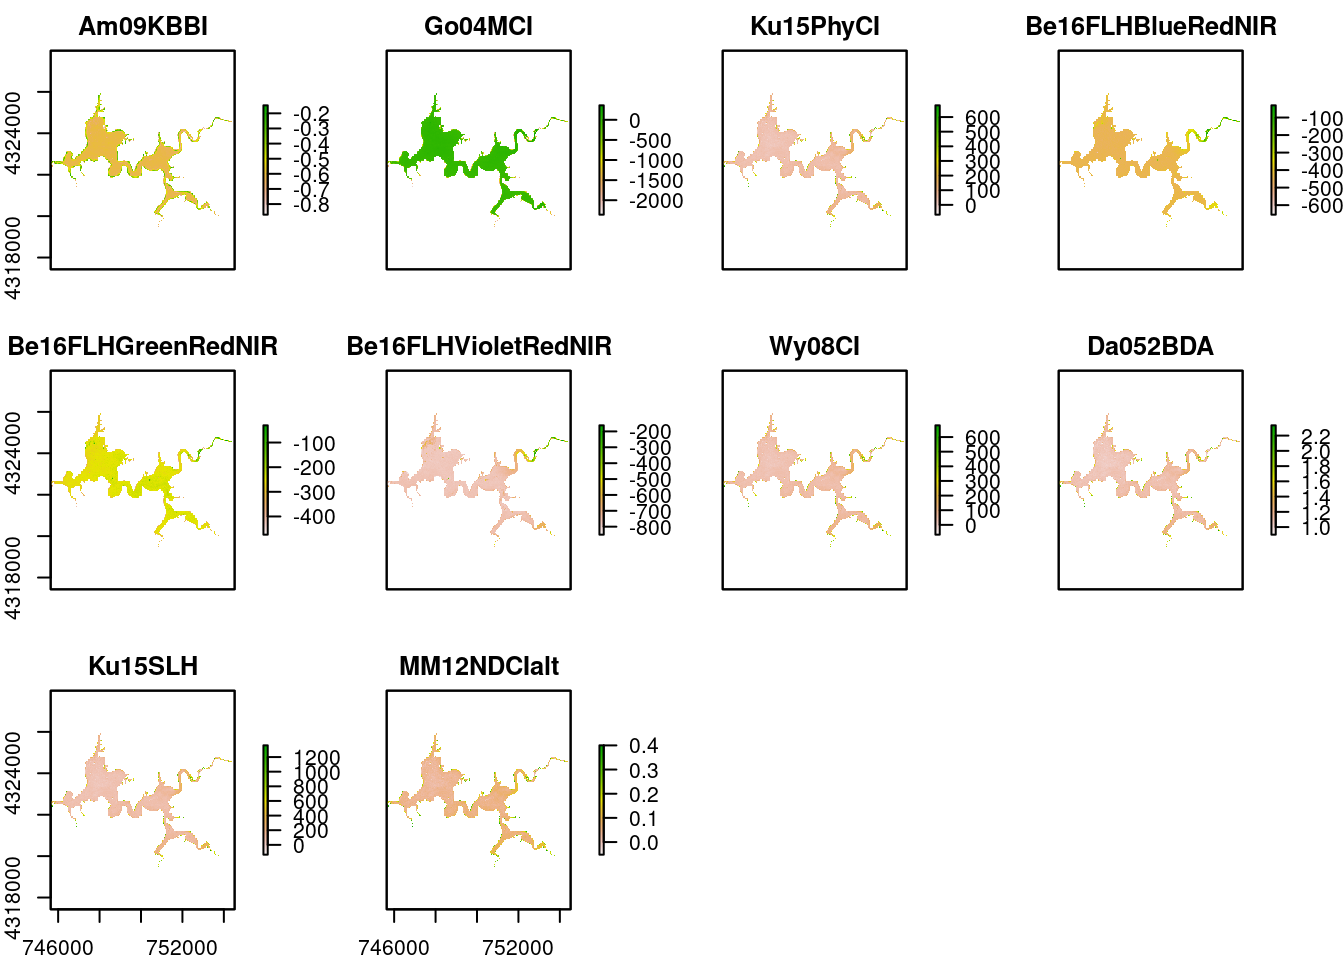
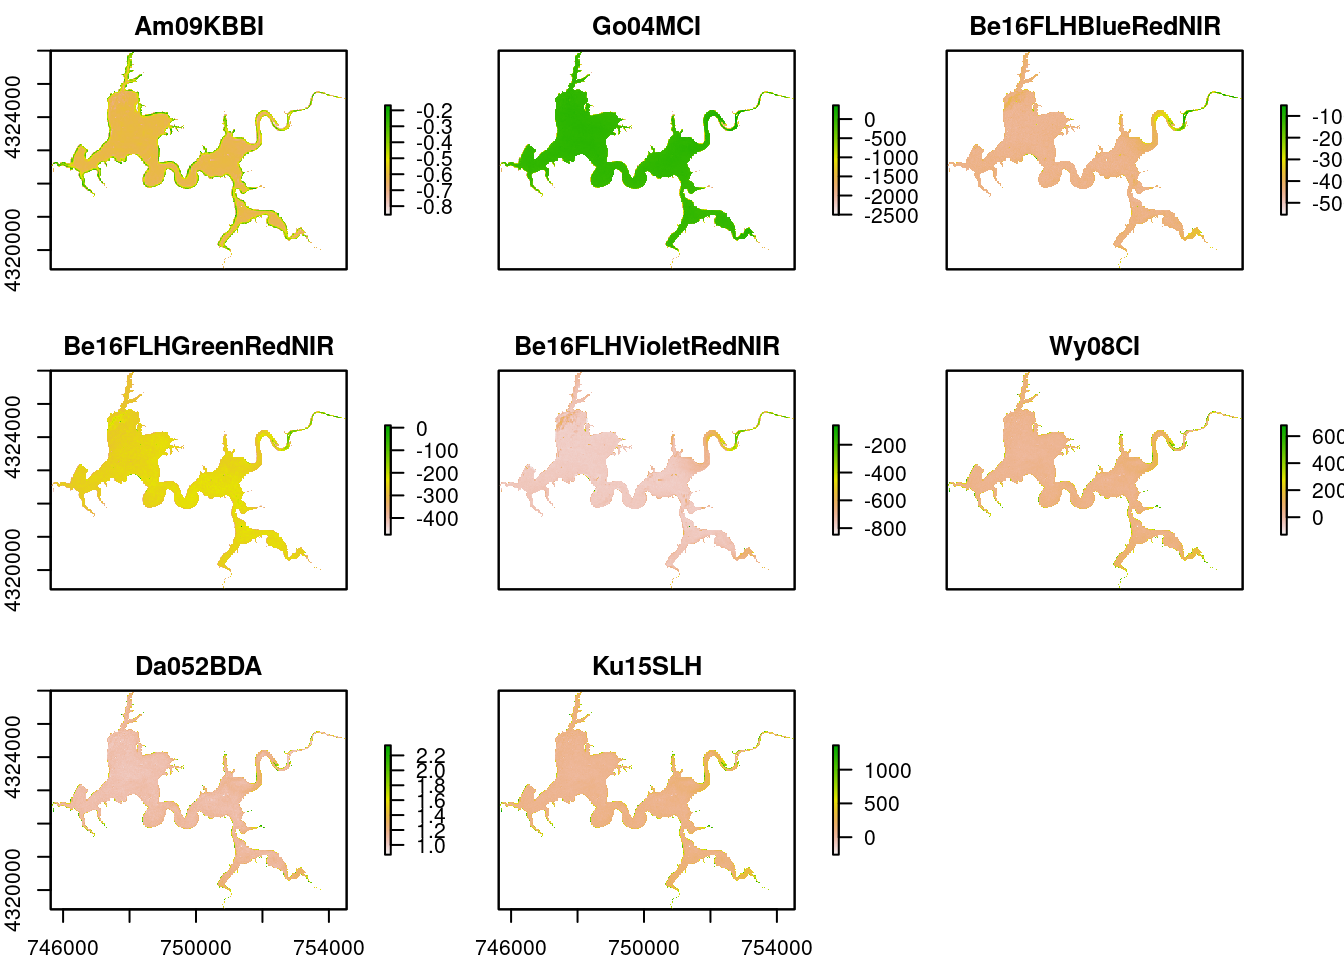
updates the website with added citation

diff --git a/docs/articles/waterquality_vignette.html b/docs/articles/waterquality_vignette.html
@@ -29,7 +29,7 @@
       </button>
       <span class="navbar-brand">
         <a class="navbar-link" href="../index.html">waterquality</a>
-        <span class="label label-default" data-toggle="tooltip" data-placement="bottom" title="Released package">0.2.0</span>
+        <span class="label label-default" data-toggle="tooltip" data-placement="bottom" title="Released package">0.2.2</span>
       </span>
     </div>
 
@@ -79,7 +79,7 @@
       <h1>Introduction to the waterquality package</h1>
                         <h4 class="author">Richard Johansen, Jakub Nowosad</h4>
             
-            <h4 class="date">2018-07-25</h4>
+            <h4 class="date">2018-11-16</h4>
       
       <small class="dont-index">Source: <a href="https://github.com/RAJohansen/waterquality/blob/master/vignettes/waterquality_vignette.Rmd"><code>vignettes/waterquality_vignette.Rmd</code></a></small>
       <div class="hidden name"><code>waterquality_vignette.Rmd</code></div>
@@ -162,7 +162,7 @@ Sen2R is a package that allows a user to search, download, and atmospherically c
 <tr class="even">
 <td align="left">8</td>
 <td align="right">NIR-2</td>
-<td align="right">0.880</td>
+<td align="right">0.950</td>
 </tr>
 </tbody>
 </table>
@@ -447,15 +447,13 @@ Sen2R is a package that allows a user to search, download, and atmospherically c
 <a class="sourceLine" id="cb4-3" data-line-number="3">                     <span class="dt">sat =</span> <span class="st">"sentinel2"</span>)</a>
 <a class="sourceLine" id="cb4-4" data-line-number="4"><span class="co">#&gt; Am09KBBI calculated!</span></a>
 <a class="sourceLine" id="cb4-5" data-line-number="5"><span class="co">#&gt; Go04MCI calculated!</span></a>
-<a class="sourceLine" id="cb4-6" data-line-number="6"><span class="co">#&gt; Ku15PhyCI calculated!</span></a>
-<a class="sourceLine" id="cb4-7" data-line-number="7"><span class="co">#&gt; Be16FLHBlueRedNIR calculated!</span></a>
-<a class="sourceLine" id="cb4-8" data-line-number="8"><span class="co">#&gt; Be16FLHGreenRedNIR calculated!</span></a>
-<a class="sourceLine" id="cb4-9" data-line-number="9"><span class="co">#&gt; Be16FLHVioletRedNIR calculated!</span></a>
-<a class="sourceLine" id="cb4-10" data-line-number="10"><span class="co">#&gt; Wy08CI calculated!</span></a>
-<a class="sourceLine" id="cb4-11" data-line-number="11"><span class="co">#&gt; Da052BDA calculated!</span></a>
-<a class="sourceLine" id="cb4-12" data-line-number="12"><span class="co">#&gt; Ku15SLH calculated!</span></a>
-<a class="sourceLine" id="cb4-13" data-line-number="13"><span class="co">#&gt; MM12NDCIalt calculated!</span></a>
-<a class="sourceLine" id="cb4-14" data-line-number="14"><span class="kw"><a href="http://www.rdocumentation.org/packages/raster/topics/plot">plot</a></span>(Harsha_PC) </a></code></pre></div>
+<a class="sourceLine" id="cb4-6" data-line-number="6"><span class="co">#&gt; Be16FLHBlueRedNIR calculated!</span></a>
+<a class="sourceLine" id="cb4-7" data-line-number="7"><span class="co">#&gt; Be16FLHGreenRedNIR calculated!</span></a>
+<a class="sourceLine" id="cb4-8" data-line-number="8"><span class="co">#&gt; Be16FLHVioletRedNIR calculated!</span></a>
+<a class="sourceLine" id="cb4-9" data-line-number="9"><span class="co">#&gt; Wy08CI calculated!</span></a>
+<a class="sourceLine" id="cb4-10" data-line-number="10"><span class="co">#&gt; Da052BDA calculated!</span></a>
+<a class="sourceLine" id="cb4-11" data-line-number="11"><span class="co">#&gt; Ku15SLH calculated!</span></a>
+<a class="sourceLine" id="cb4-12" data-line-number="12"><span class="kw"><a href="http://www.rdocumentation.org/packages/raster/topics/plot">plot</a></span>(Harsha_PC) </a></code></pre></div>
 <p><img src="waterquality_vignette_files/figure-html/unnamed-chunk-4-1.png" width="672"></p>
 </div>
 <div id="all-algorithms" class="section level2">
@@ -467,32 +465,28 @@ Sen2R is a package that allows a user to search, download, and atmospherically c
 <a class="sourceLine" id="cb5-4" data-line-number="4"><span class="co">#&gt; Al10SABI calculated!</span></a>
 <a class="sourceLine" id="cb5-5" data-line-number="5"><span class="co">#&gt; Am092Bsub calculated!</span></a>
 <a class="sourceLine" id="cb5-6" data-line-number="6"><span class="co">#&gt; Am09KBBI calculated!</span></a>
-<a class="sourceLine" id="cb5-7" data-line-number="7"><span class="co">#&gt; Be16FLHblue calculated!</span></a>
-<a class="sourceLine" id="cb5-8" data-line-number="8"><span class="co">#&gt; Be16FLHviolet calculated!</span></a>
-<a class="sourceLine" id="cb5-9" data-line-number="9"><span class="co">#&gt; Gi033BDA calculated!</span></a>
-<a class="sourceLine" id="cb5-10" data-line-number="10"><span class="co">#&gt; Go04MCI calculated!</span></a>
-<a class="sourceLine" id="cb5-11" data-line-number="11"><span class="co">#&gt; Ku15PhyCI calculated!</span></a>
-<a class="sourceLine" id="cb5-12" data-line-number="12"><span class="co">#&gt; MM12NDCI calculated!</span></a>
-<a class="sourceLine" id="cb5-13" data-line-number="13"><span class="co">#&gt; Be16NDTIblue calculated!</span></a>
-<a class="sourceLine" id="cb5-14" data-line-number="14"><span class="co">#&gt; Be16NDTIviolet calculated!</span></a>
-<a class="sourceLine" id="cb5-15" data-line-number="15"><span class="co">#&gt; Be16FLHBlueRedNIR calculated!</span></a>
-<a class="sourceLine" id="cb5-16" data-line-number="16"><span class="co">#&gt; Be16FLHGreenRedNIR calculated!</span></a>
-<a class="sourceLine" id="cb5-17" data-line-number="17"><span class="co">#&gt; Be16FLHVioletRedNIR calculated!</span></a>
-<a class="sourceLine" id="cb5-18" data-line-number="18"><span class="co">#&gt; Wy08CI calculated!</span></a>
-<a class="sourceLine" id="cb5-19" data-line-number="19"><span class="co">#&gt; Da052BDA calculated!</span></a>
-<a class="sourceLine" id="cb5-20" data-line-number="20"><span class="co">#&gt; Zh10FLH calculated!</span></a>
-<a class="sourceLine" id="cb5-21" data-line-number="21"><span class="co">#&gt; Ku15SLH calculated!</span></a>
-<a class="sourceLine" id="cb5-22" data-line-number="22"><span class="co">#&gt; MM12NDCIalt calculated!</span></a>
-<a class="sourceLine" id="cb5-23" data-line-number="23"><span class="co">#&gt; TurbBe16GreenPlusRedBothOverViolet calculated!</span></a>
-<a class="sourceLine" id="cb5-24" data-line-number="24"><span class="co">#&gt; TurbBe16RedOverViolet calculated!</span></a>
-<a class="sourceLine" id="cb5-25" data-line-number="25"><span class="co">#&gt; TurbBow06RedOverGreen calculated!</span></a>
-<a class="sourceLine" id="cb5-26" data-line-number="26"><span class="co">#&gt; TurbChip09NIROverGreen calculated!</span></a>
-<a class="sourceLine" id="cb5-27" data-line-number="27"><span class="co">#&gt; TurbDox02NIRoverRed calculated!</span></a>
-<a class="sourceLine" id="cb5-28" data-line-number="28"><span class="co">#&gt; TurbFrohn09GreenPlusRedBothOverBlue calculated!</span></a>
-<a class="sourceLine" id="cb5-29" data-line-number="29"><span class="co">#&gt; TurbHarr92NIR calculated!</span></a>
-<a class="sourceLine" id="cb5-30" data-line-number="30"><span class="co">#&gt; TurbLath91RedOverBlue calculated!</span></a>
-<a class="sourceLine" id="cb5-31" data-line-number="31"><span class="co">#&gt; TurbMoore80Red calculated!</span></a>
-<a class="sourceLine" id="cb5-32" data-line-number="32"><span class="kw"><a href="http://www.rdocumentation.org/packages/raster/topics/plot">plot</a></span>(Harsha_All) <span class="co"># Only displays first 12 of 28</span></a></code></pre></div>
+<a class="sourceLine" id="cb5-7" data-line-number="7"><span class="co">#&gt; Be16FLHviolet calculated!</span></a>
+<a class="sourceLine" id="cb5-8" data-line-number="8"><span class="co">#&gt; Gi033BDA calculated!</span></a>
+<a class="sourceLine" id="cb5-9" data-line-number="9"><span class="co">#&gt; Go04MCI calculated!</span></a>
+<a class="sourceLine" id="cb5-10" data-line-number="10"><span class="co">#&gt; MM12NDCI calculated!</span></a>
+<a class="sourceLine" id="cb5-11" data-line-number="11"><span class="co">#&gt; Be16NDTIblue calculated!</span></a>
+<a class="sourceLine" id="cb5-12" data-line-number="12"><span class="co">#&gt; Be16NDTIviolet calculated!</span></a>
+<a class="sourceLine" id="cb5-13" data-line-number="13"><span class="co">#&gt; Be16FLHBlueRedNIR calculated!</span></a>
+<a class="sourceLine" id="cb5-14" data-line-number="14"><span class="co">#&gt; Be16FLHGreenRedNIR calculated!</span></a>
+<a class="sourceLine" id="cb5-15" data-line-number="15"><span class="co">#&gt; Be16FLHVioletRedNIR calculated!</span></a>
+<a class="sourceLine" id="cb5-16" data-line-number="16"><span class="co">#&gt; Wy08CI calculated!</span></a>
+<a class="sourceLine" id="cb5-17" data-line-number="17"><span class="co">#&gt; Da052BDA calculated!</span></a>
+<a class="sourceLine" id="cb5-18" data-line-number="18"><span class="co">#&gt; Ku15SLH calculated!</span></a>
+<a class="sourceLine" id="cb5-19" data-line-number="19"><span class="co">#&gt; TurbBe16GreenPlusRedBothOverViolet calculated!</span></a>
+<a class="sourceLine" id="cb5-20" data-line-number="20"><span class="co">#&gt; TurbBe16RedOverViolet calculated!</span></a>
+<a class="sourceLine" id="cb5-21" data-line-number="21"><span class="co">#&gt; TurbBow06RedOverGreen calculated!</span></a>
+<a class="sourceLine" id="cb5-22" data-line-number="22"><span class="co">#&gt; TurbChip09NIROverGreen calculated!</span></a>
+<a class="sourceLine" id="cb5-23" data-line-number="23"><span class="co">#&gt; TurbDox02NIRoverRed calculated!</span></a>
+<a class="sourceLine" id="cb5-24" data-line-number="24"><span class="co">#&gt; TurbFrohn09GreenPlusRedBothOverBlue calculated!</span></a>
+<a class="sourceLine" id="cb5-25" data-line-number="25"><span class="co">#&gt; TurbHarr92NIR calculated!</span></a>
+<a class="sourceLine" id="cb5-26" data-line-number="26"><span class="co">#&gt; TurbLath91RedOverBlue calculated!</span></a>
+<a class="sourceLine" id="cb5-27" data-line-number="27"><span class="co">#&gt; TurbMoore80Red calculated!</span></a>
+<a class="sourceLine" id="cb5-28" data-line-number="28"><span class="kw"><a href="http://www.rdocumentation.org/packages/raster/topics/plot">plot</a></span>(Harsha_All) <span class="co"># Only displays first 12 of 28</span></a></code></pre></div>
 <p><img src="waterquality_vignette_files/figure-html/unnamed-chunk-5-1.png" width="672"></p>
 </div>
 </div>

diff --git a/docs/index.html b/docs/index.html
@@ -33,7 +33,7 @@
       </button>
       <span class="navbar-brand">
         <a class="navbar-link" href="index.html">waterquality</a>
-        <span class="label label-default" data-toggle="tooltip" data-placement="bottom" title="Released package">0.2.0</span>
+        <span class="label label-default" data-toggle="tooltip" data-placement="bottom" title="Released package">0.2.2</span>
       </span>
     </div>
 
@@ -94,7 +94,7 @@
 <a href="#installation" class="anchor"></a>Installation</h2>
 <p>You can install waterquality from github with:</p>
 <div class="sourceCode" id="cb1"><pre class="sourceCode r"><code class="sourceCode r"><a class="sourceLine" id="cb1-1" data-line-number="1"><span class="co"># install.packages("devtools")</span></a>
-<a class="sourceLine" id="cb1-2" data-line-number="2">devtools<span class="op">::</span><span class="kw"><a href="http://www.rdocumentation.org/packages/devtools/topics/install_github">install_github</a></span>(<span class="st">"RAJohansen/waterquality"</span>)</a></code></pre></div>
+<a class="sourceLine" id="cb1-2" data-line-number="2">devtools<span class="op">::</span><span class="kw"><a href="http://www.rdocumentation.org/packages/devtools/topics/reexports">install_github</a></span>(<span class="st">"RAJohansen/waterquality"</span>)</a></code></pre></div>
 </div>
 <div id="example" class="section level2">
 <h2 class="hasAnchor">
@@ -115,7 +115,7 @@
 <h2 class="hasAnchor">
 <a href="#package-contributions" class="anchor"></a>Package Contributions</h2>
 <p>We encourage users to submit issues and enhancement requests so we may continue to improve our package.</p>
-<p>Futhermore, if you have a water quality algorithm that was not on our list, and you would like for it to be included in our package please email me at <a href="mailto:richard.johansen@uc.edu">richard.johansen@uc.edu</a>.</p>
+<p>Futhermore, if you have a water quality algorithm that was not on our list, and you would like for it to be included in our package please email me at <a href="mailto:richard.johansen@uc.edu" class="email">richard.johansen@uc.edu</a>.</p>
 </div>
 </div>
   </div>
@@ -136,6 +136,12 @@
 <li>
 <a href="https://opensource.org/licenses/mit-license.php">MIT</a> + file <a href="LICENSE-text.html">LICENSE</a>
 </li>
+</ul>
+</div>
+<div class="citation">
+<h2>Citation</h2>
+<ul class="list-unstyled">
+<li><a href="authors.html">Citing waterquality</a></li>
 </ul>
 </div>
 <div class="developers">

diff --git a/docs/reference/waterquality-package.html b/docs/reference/waterquality-package.html
@@ -33,10 +33,10 @@
 <meta property="og:title" content="waterquality: Satellite Derived Water Quality Detection Algorithms — waterquality-package" />
 
 <meta property="og:description" content="The goal of 'waterquality' is to convert satellite-reflectance imagery
-to a host of pre-defined water quality algorithms designed for the detection of
-cholorophyll-a, blue-green algae (Phycocyanin), and turbidity.
-This package is able to process the following sensor configurations:
-WorldView-2, Sentinel-2, Landsat-8, MODIS, and MERIS." />
+    to a host of pre-defined water quality algorithms designed for the detection of 
+    cholorophyll-a, blue-green algae (Phycocyanin), and turbidity. 
+    This package is able to process the following sensor configurations: 
+    WorldView-2, Sentinel-2, Landsat-8, MODIS, and MERIS." />
 <meta name="twitter:card" content="summary" />
 
 
@@ -65,7 +65,7 @@ WorldView-2, Sentinel-2, Landsat-8, MODIS, and MERIS." />
       </button>
       <span class="navbar-brand">
         <a class="navbar-link" href="../index.html">waterquality</a>
-        <span class="label label-default" data-toggle="tooltip" data-placement="bottom" title="Released package">0.2.0</span>
+        <span class="label label-default" data-toggle="tooltip" data-placement="bottom" title="Released package">0.2.2</span>
       </span>
     </div>
 
@@ -121,10 +121,10 @@ WorldView-2, Sentinel-2, Landsat-8, MODIS, and MERIS." />
     <div class="ref-description">
     
     <p>The goal of 'waterquality' is to convert satellite-reflectance imagery
-to a host of pre-defined water quality algorithms designed for the detection of
-cholorophyll-a, blue-green algae (Phycocyanin), and turbidity.
-This package is able to process the following sensor configurations:
-WorldView-2, Sentinel-2, Landsat-8, MODIS, and MERIS.</p>
+    to a host of pre-defined water quality algorithms designed for the detection of 
+    cholorophyll-a, blue-green algae (Phycocyanin), and turbidity. 
+    This package is able to process the following sensor configurations: 
+    WorldView-2, Sentinel-2, Landsat-8, MODIS, and MERIS.</p>
     
     </div>
 

diff --git a/docs/authors.html b/docs/authors.html
@@ -6,7 +6,7 @@
 <meta http-equiv="X-UA-Compatible" content="IE=edge">
 <meta name="viewport" content="width=device-width, initial-scale=1.0">
 
-<title>Authors • waterquality</title>
+<title>Citation and Authors • waterquality</title>
 
 <!-- jquery -->
 <script src="https://code.jquery.com/jquery-3.1.0.min.js" integrity="sha384-nrOSfDHtoPMzJHjVTdCopGqIqeYETSXhZDFyniQ8ZHcVy08QesyHcnOUpMpqnmWq" crossorigin="anonymous"></script>
@@ -30,7 +30,7 @@
 
 
 
-<meta property="og:title" content="Authors" />
+<meta property="og:title" content="Citation and Authors" />
 
 
 
@@ -46,7 +46,7 @@
   </head>
 
   <body>
-    <div class="container template-authors">
+    <div class="container template-citation-authors">
       <header>
       <div class="navbar navbar-default navbar-fixed-top" role="navigation">
   <div class="container">
@@ -58,7 +58,7 @@
       </button>
       <span class="navbar-brand">
         <a class="navbar-link" href="index.html">waterquality</a>
-        <span class="label label-default" data-toggle="tooltip" data-placement="bottom" title="Released package">0.2.0</span>
+        <span class="label label-default" data-toggle="tooltip" data-placement="bottom" title="Released package">0.2.2</span>
       </span>
     </div>
 
@@ -105,6 +105,21 @@
 
 <div class="row">
   <div class="contents col-md-9">
+    <div class="page-header">
+      <h1>Citation</h1>
+    </div>
+
+    <p>Johansen R, Nowosad J (2018).
+<em>waterquality: Satellite Derived Water Quality Detection Algorithms</em>.
+R package version 0.2.2, <a href="https://rajohansen.github.io/waterquality/">https://rajohansen.github.io/waterquality/</a>. 
+</p>
+    <pre>@Manual{,
+  author = {Richard Johansen and Jakub Nowosad},
+  title = {waterquality: Satellite Derived Water Quality Detection Algorithms},
+  year = {2018},
+  note = {R package version 0.2.2},
+  url = {https://rajohansen.github.io/waterquality/},
+}</pre>
     <div class="page-header">
       <h1>Authors</h1>
     </div>

diff --git a/docs/LICENSE-text.html b/docs/LICENSE-text.html
@@ -58,7 +58,7 @@
       </button>
       <span class="navbar-brand">
         <a class="navbar-link" href="index.html">waterquality</a>
-        <span class="label label-default" data-toggle="tooltip" data-placement="bottom" title="Released package">0.2.0</span>
+        <span class="label label-default" data-toggle="tooltip" data-placement="bottom" title="Released package">0.2.2</span>
       </span>
     </div>
 
@@ -109,8 +109,27 @@
       <h1>License</h1>
     </div>
 
-<pre>YEAR: 2017
-COPYRIGHT HOLDERS: Richard A. Johansen, Jakub Nowosad
+<pre>MIT License
+
+Copyright (c) 2018 Richard A. Johansen &amp; Jakub Nowosad
+
+Permission is hereby granted, free of charge, to any person obtaining a copy
+of this software and associated documentation files (the "Software"), to deal
+in the Software without restriction, including without limitation the rights
+to use, copy, modify, merge, publish, distribute, sublicense, and/or sell
+copies of the Software, and to permit persons to whom the Software is
+furnished to do so, subject to the following conditions:
+
+The above copyright notice and this permission notice shall be included in all
+copies or substantial portions of the Software.
+
+THE SOFTWARE IS PROVIDED "AS IS", WITHOUT WARRANTY OF ANY KIND, EXPRESS OR
+IMPLIED, INCLUDING BUT NOT LIMITED TO THE WARRANTIES OF MERCHANTABILITY,
+FITNESS FOR A PARTICULAR PURPOSE AND NONINFRINGEMENT. IN NO EVENT SHALL THE
+AUTHORS OR COPYRIGHT HOLDERS BE LIABLE FOR ANY CLAIM, DAMAGES OR OTHER
+LIABILITY, WHETHER IN AN ACTION OF CONTRACT, TORT OR OTHERWISE, ARISING FROM,
+OUT OF OR IN CONNECTION WITH THE SOFTWARE OR THE USE OR OTHER DEALINGS IN THE
+SOFTWARE.
 </pre>
 
   </div>

diff --git a/docs/articles/index.html b/docs/articles/index.html
@@ -58,7 +58,7 @@
       </button>
       <span class="navbar-brand">
         <a class="navbar-link" href="../index.html">waterquality</a>
-        <span class="label label-default" data-toggle="tooltip" data-placement="bottom" title="Released package">0.2.0</span>
+        <span class="label label-default" data-toggle="tooltip" data-placement="bottom" title="Released package">0.2.2</span>
       </span>
     </div>
 

diff --git a/docs/reference/Al10SABI.html b/docs/reference/Al10SABI.html
@@ -61,7 +61,7 @@
       </button>
       <span class="navbar-brand">
         <a class="navbar-link" href="../index.html">waterquality</a>
-        <span class="label label-default" data-toggle="tooltip" data-placement="bottom" title="Released package">0.2.0</span>
+        <span class="label label-default" data-toggle="tooltip" data-placement="bottom" title="Released package">0.2.2</span>
       </span>
     </div>
 

diff --git a/docs/reference/Am092Bsub.html b/docs/reference/Am092Bsub.html
@@ -61,7 +61,7 @@
       </button>
       <span class="navbar-brand">
         <a class="navbar-link" href="../index.html">waterquality</a>
-        <span class="label label-default" data-toggle="tooltip" data-placement="bottom" title="Released package">0.2.0</span>
+        <span class="label label-default" data-toggle="tooltip" data-placement="bottom" title="Released package">0.2.2</span>
       </span>
     </div>
 

diff --git a/docs/reference/Am09KBBI.html b/docs/reference/Am09KBBI.html
@@ -61,7 +61,7 @@
       </button>
       <span class="navbar-brand">
         <a class="navbar-link" href="../index.html">waterquality</a>
-        <span class="label label-default" data-toggle="tooltip" data-placement="bottom" title="Released package">0.2.0</span>
+        <span class="label label-default" data-toggle="tooltip" data-placement="bottom" title="Released package">0.2.2</span>
       </span>
     </div>
 

diff --git a/docs/reference/Be162B643sub629.html b/docs/reference/Be162B643sub629.html
@@ -61,7 +61,7 @@
       </button>
       <span class="navbar-brand">
         <a class="navbar-link" href="../index.html">waterquality</a>
-        <span class="label label-default" data-toggle="tooltip" data-placement="bottom" title="Released package">0.2.0</span>
+        <span class="label label-default" data-toggle="tooltip" data-placement="bottom" title="Released package">0.2.2</span>
       </span>
     </div>
 

diff --git a/docs/reference/Be162B700sub601.html b/docs/reference/Be162B700sub601.html
@@ -61,7 +61,7 @@
       </button>
       <span class="navbar-brand">
         <a class="navbar-link" href="../index.html">waterquality</a>
-        <span class="label label-default" data-toggle="tooltip" data-placement="bottom" title="Released package">0.2.0</span>
+        <span class="label label-default" data-toggle="tooltip" data-placement="bottom" title="Released package">0.2.2</span>
       </span>
     </div>
 

diff --git a/docs/reference/Be162BsubPhy.html b/docs/reference/Be162BsubPhy.html
@@ -61,7 +61,7 @@
       </button>
       <span class="navbar-brand">
         <a class="navbar-link" href="../index.html">waterquality</a>
-        <span class="label label-default" data-toggle="tooltip" data-placement="bottom" title="Released package">0.2.0</span>
+        <span class="label label-default" data-toggle="tooltip" data-placement="bottom" title="Released package">0.2.2</span>
       </span>
     </div>
 
